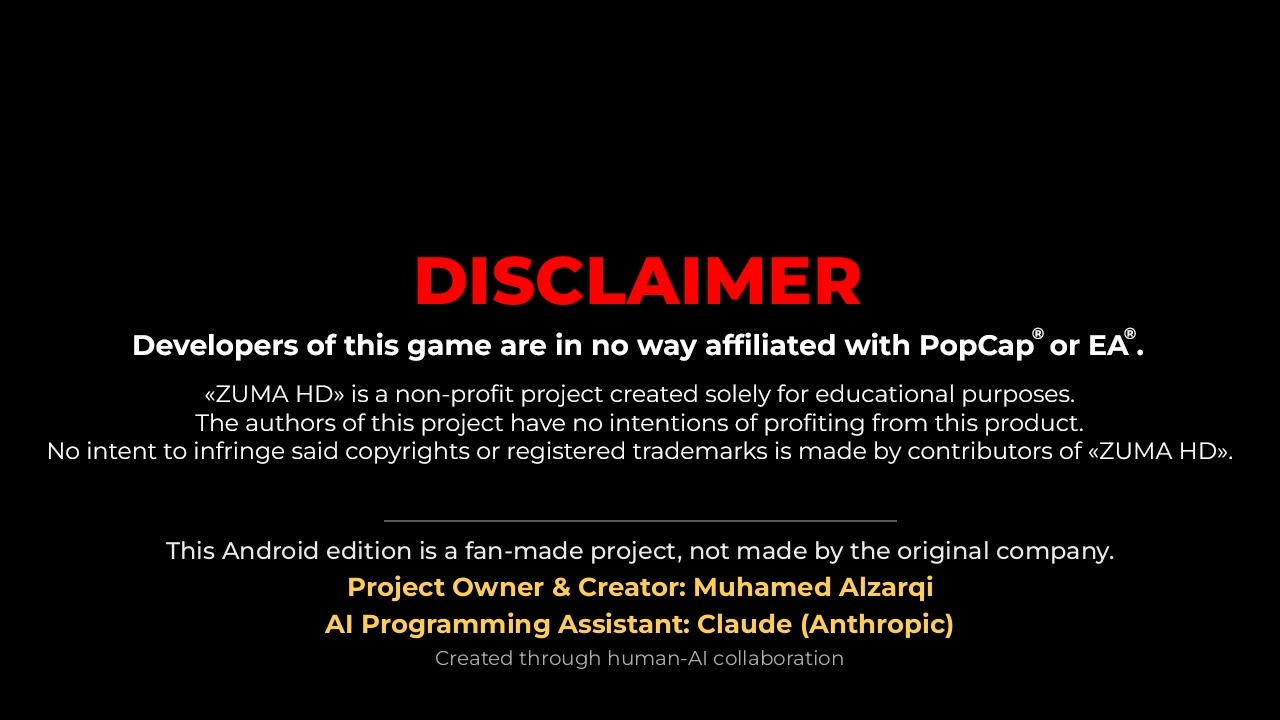
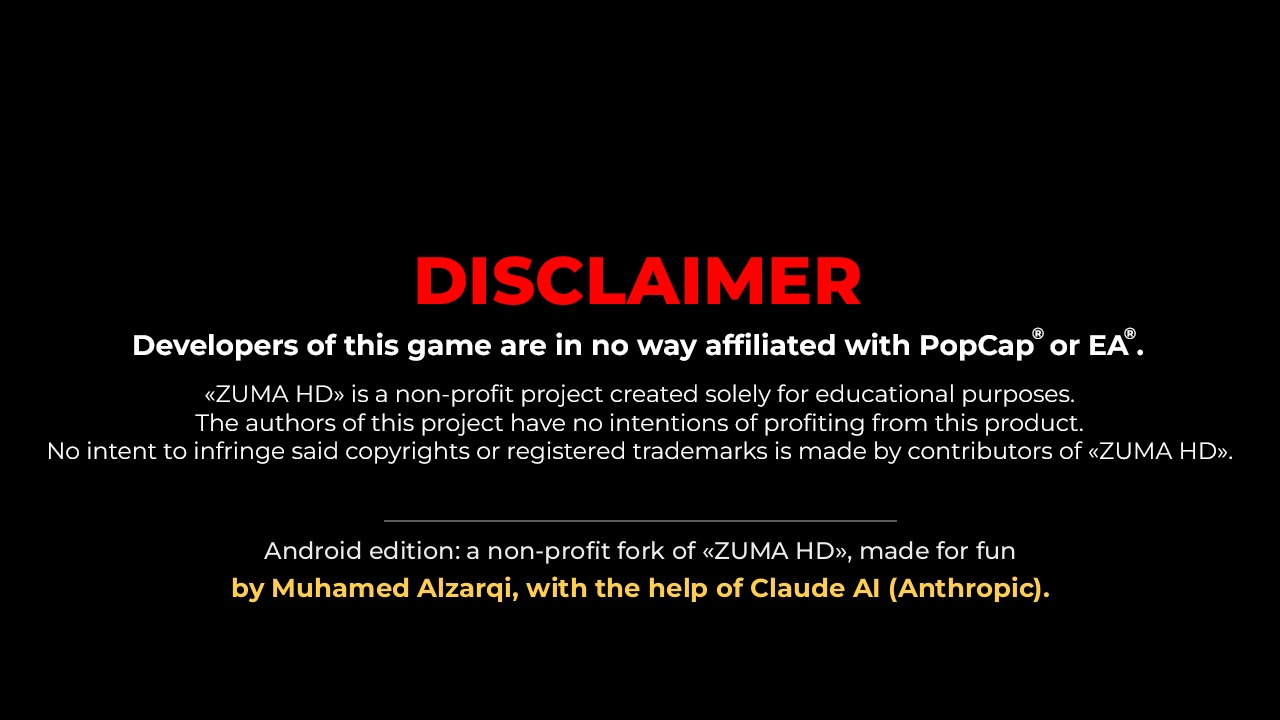
Disclaimer: short Android-edition note (non-profit fork, made for fun, by Muhamed Alzarqi with Claude AI)
Claude-Session: https://claude.ai/code/session_01PLa1pRBxpEYJaiQfMqPxWP

Changed region(s): [[0.125, 0.7333, 0.875, 0.9472]]

diff --git a/tools/make_disclaimers.py b/tools/make_disclaimers.py
@@ -37,19 +37,17 @@ def english():
     d.line((W * 0.30, 520, W * 0.70, 520), fill=(90, 90, 90), width=2)
     y = 540
     for text, font, col in [
-        ('This Android edition is a fan-made project, not made by the original company.', mont(24, 500), LIGHT),
-        ('Project Owner & Creator: Muhamed Alzarqi', mont(26, 700), GOLD),
-        ('AI Programming Assistant: Claude (Anthropic)', mont(26, 700), GOLD),
-        ('Created through human-AI collaboration', mont(20, 400), GREY),
+        ('Android edition: a non-profit fork of «ZUMA HD», made for fun', mont(24, 500), LIGHT),
+        ('by Muhamed Alzarqi, with the help of Claude AI (Anthropic).', mont(26, 700), GOLD),
     ]:
         d.text((W / 2, y), text, font=font, fill=col, anchor='mt')
-        y += font.size * 1.45
+        y += font.size * 1.5
     im.save(os.path.join(ROOT, 'content/images/disclaimer.jpg'), quality=92)
 
 def arabic():
     W, H = 1280, 720
     im = Image.new('RGB', (W, H), (0, 0, 0)); d = ImageDraw.Draw(im)
-    y = 150
+    y = 175
     for text, size, col in [
         ('تنبيه', 104, RED),
         ('مطوّرو هذه اللعبة لا علاقة لهم بشركة PopCap أو EA.', 42, WHITE),
@@ -63,13 +61,11 @@ def arabic():
     d.line((W * 0.30, y, W * 0.70, y), fill=(90, 90, 90), width=2)
     y += 22
     for text, size, col in [
-        ('نسخة الأندرويد هذه مشروع من صنع المعجبين، وليست من الشركة الأصلية.', 30, LIGHT),
-        ('صاحب المشروع ومنشئه: محمد الزرقي', 34, GOLD),
-        ('مساعد البرمجة بالذكاء الاصطناعي: Claude من Anthropic', 34, GOLD),
-        ('صُنع بالتعاون بين الإنسان والذكاء الاصطناعي', 26, GREY),
+        ('نسخة الأندرويد: نسخة معدّلة (فورك) غير ربحية من «ZUMA HD» صُنعت للمتعة،', 30, LIGHT),
+        ('من تطوير محمد الزرقي، بمساعدة الذكاء الاصطناعي Claude من Anthropic.', 34, GOLD),
     ]:
         d.text((W / 2, y), text, font=lalezar(size), fill=col, anchor='mt', direction='rtl')
-        y += size * 1.35
+        y += size * 1.45
     im.save(os.path.join(ROOT, 'content/images/disclaimer_ar.jpg'), quality=92)
 
 if __name__ == '__main__':
